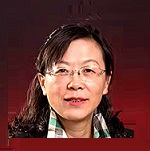
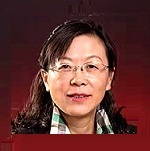
图像

Changed region(s): [[0.0, 0.0795, 0.9333, 1.0]]

diff --git a/css/nasac_fmac.css b/css/nasac_fmac.css
@@ -628,7 +628,7 @@ top:0
 }
 
 .photo5{
-	background-image:url(../images/photo/555.png)
+	background-image:url(../images/photo/55.png)
 }
 
 .photo6{
@@ -640,7 +640,7 @@ top:0
 }
 
 .photo8{
-	background-image:url(../images/photo/888.png)
+	background-image:url(../images/photo/88.png)
 }
 
 .photo9{
